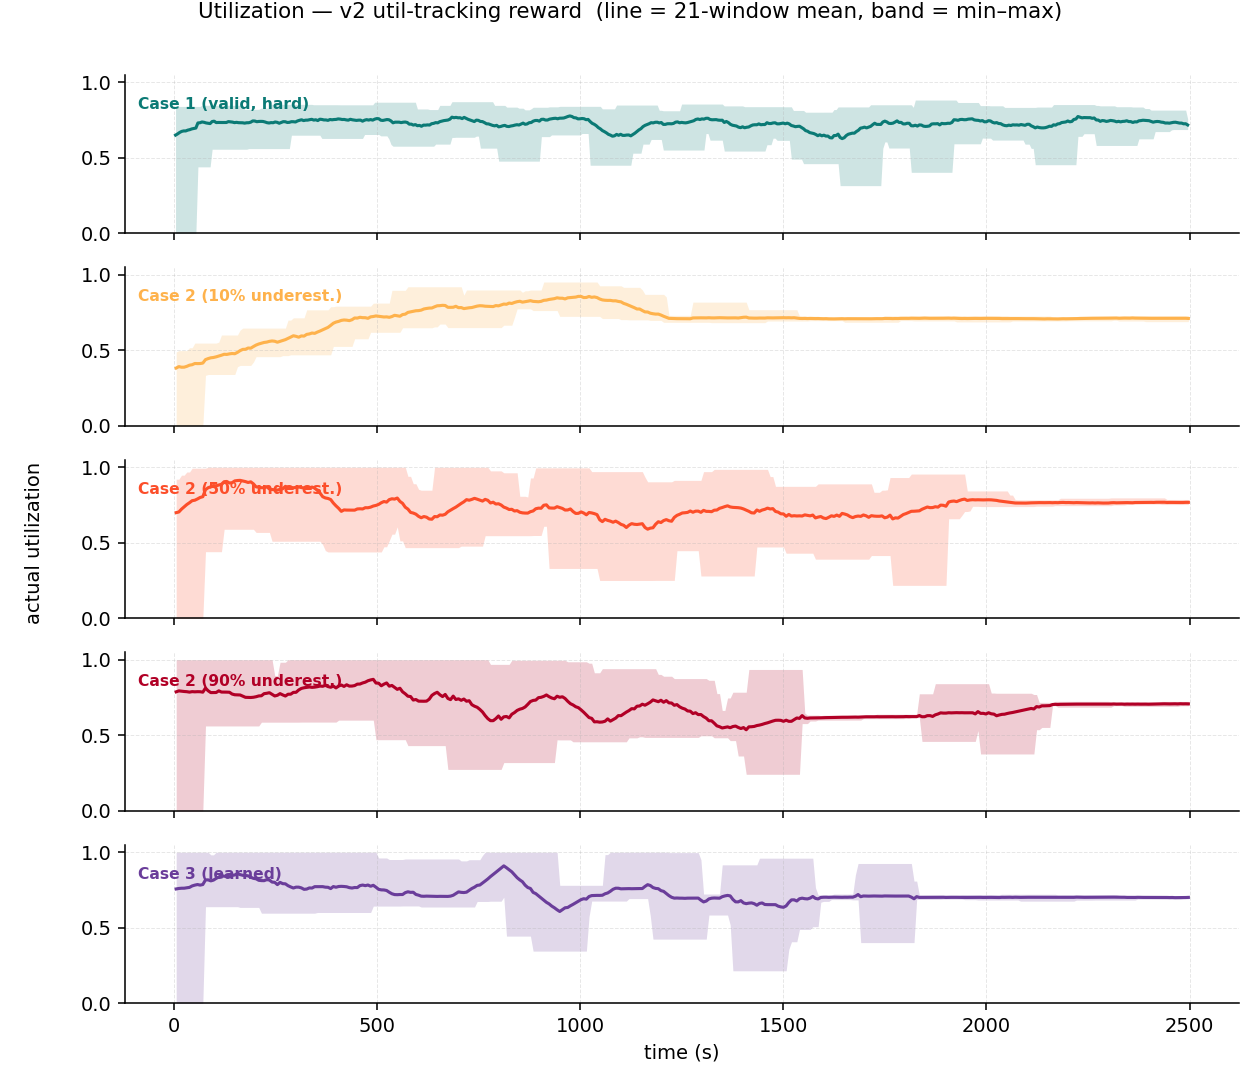
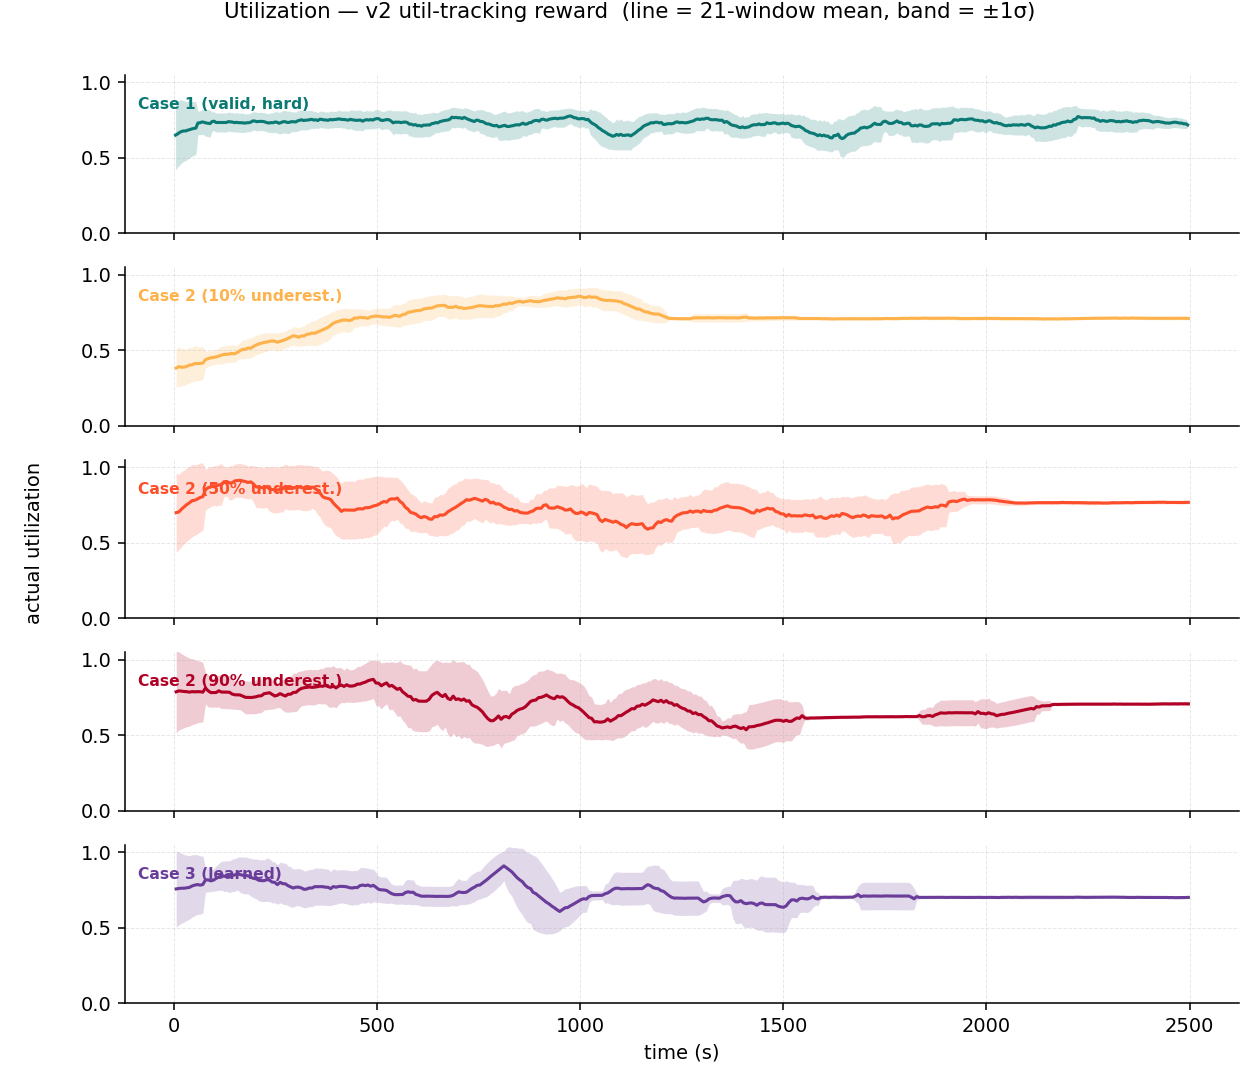
Figures: smooth +/-1 sigma band instead of min/max (no boxy plateaus)
min/max rolling band plateaued at extremes (esp. spiky 0/1 DMR), reading as
rectangular boxes. Replace with rolling mean +/- 1 std, which hugs the mean
smoothly. Regenerated paper + v2 sets.

diff --git a/scripts/fig_three_cases.py b/scripts/fig_three_cases.py
@@ -140,13 +140,18 @@ def _style(ax):
 
 
 def _rollband(y, w=21):
-    """Rolling (mean, min, max) over a centered window — the trend line + its range band."""
+    """Rolling (mean, mean-std, mean+std) over a centered window. The ±1σ band hugs the mean
+    smoothly — unlike a min/max band, which plateaus at extremes and reads as rectangular
+    boxes on spiky 0/1 data. Lower edge clipped at 0."""
     n, half = len(y), w // 2
     m, lo, hi = [], [], []
     for i in range(n):
         a, b = max(0, i - half), min(n, i + half + 1)
         seg = y[a:b]
-        m.append(sum(seg) / len(seg)); lo.append(min(seg)); hi.append(max(seg))
+        mu = sum(seg) / len(seg)
+        var = sum((v - mu) ** 2 for v in seg) / len(seg)
+        sd = var ** 0.5
+        m.append(mu); lo.append(max(0.0, mu - sd)); hi.append(mu + sd)
     return m, lo, hi
 
 
@@ -176,7 +181,7 @@ def plot():
                 ax.spines[sp].set_visible(False)
         axes[-1].set_xlabel("time (s)")
         fig.supylabel(ylabel, fontsize=10)
-        fig.suptitle(f"{metric_title} — {rlabel}  (line = {21}-window mean, band = min–max)",
+        fig.suptitle(f"{metric_title} — {rlabel}  (line = 21-window mean, band = ±1σ)",
                      fontsize=11, y=0.998)
         fig.tight_layout(rect=[0.015, 0, 1, 0.99])
         p = fig_path(key)
